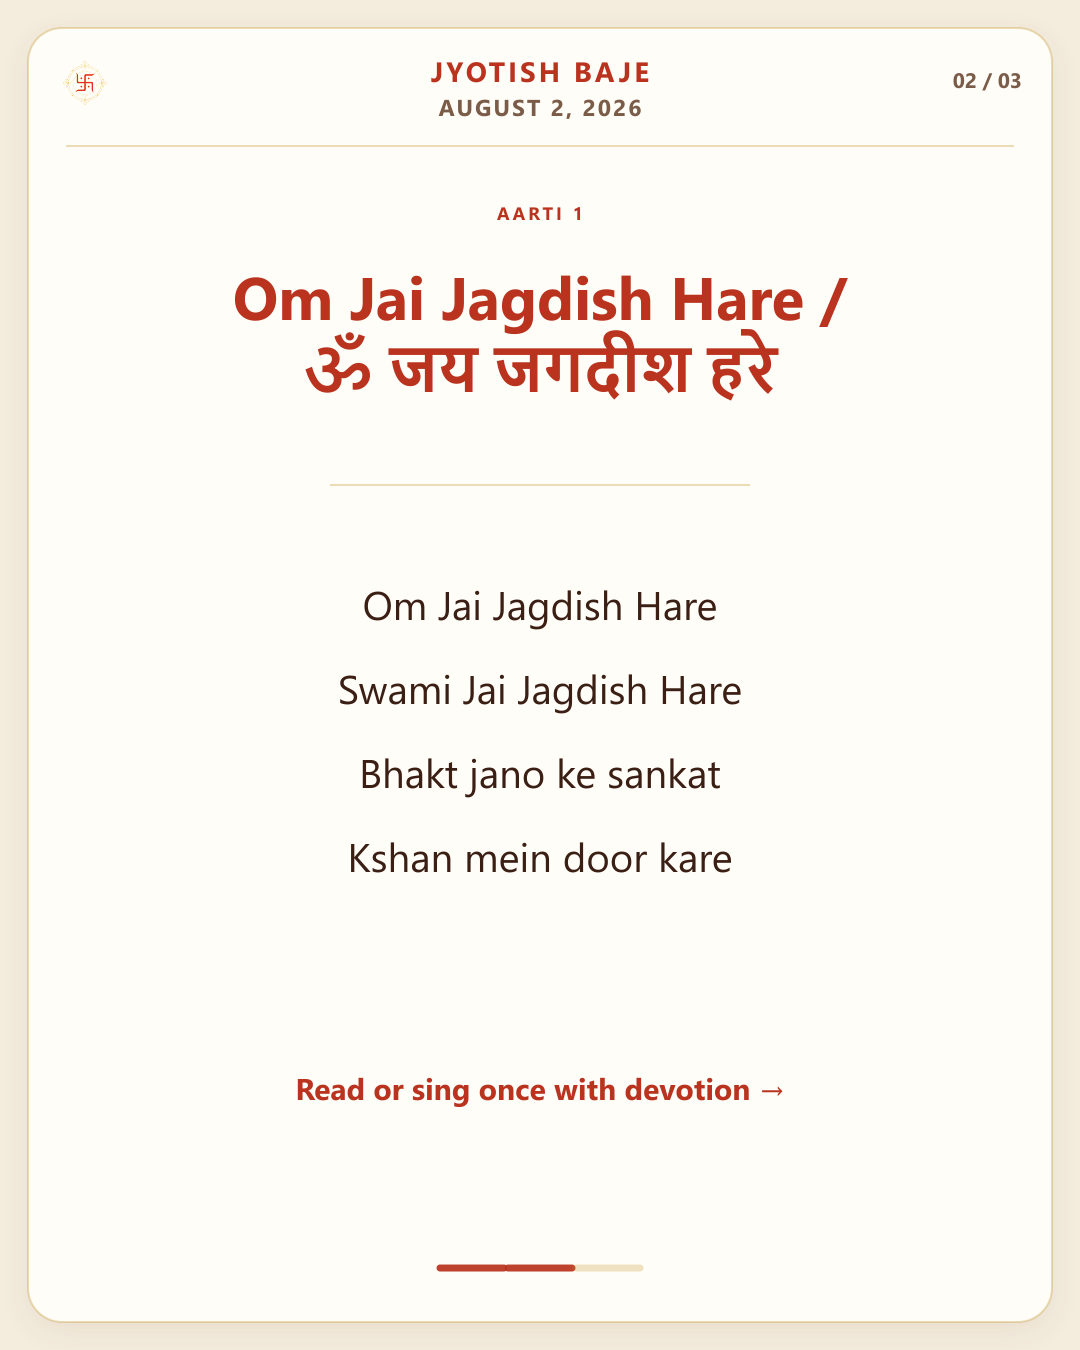
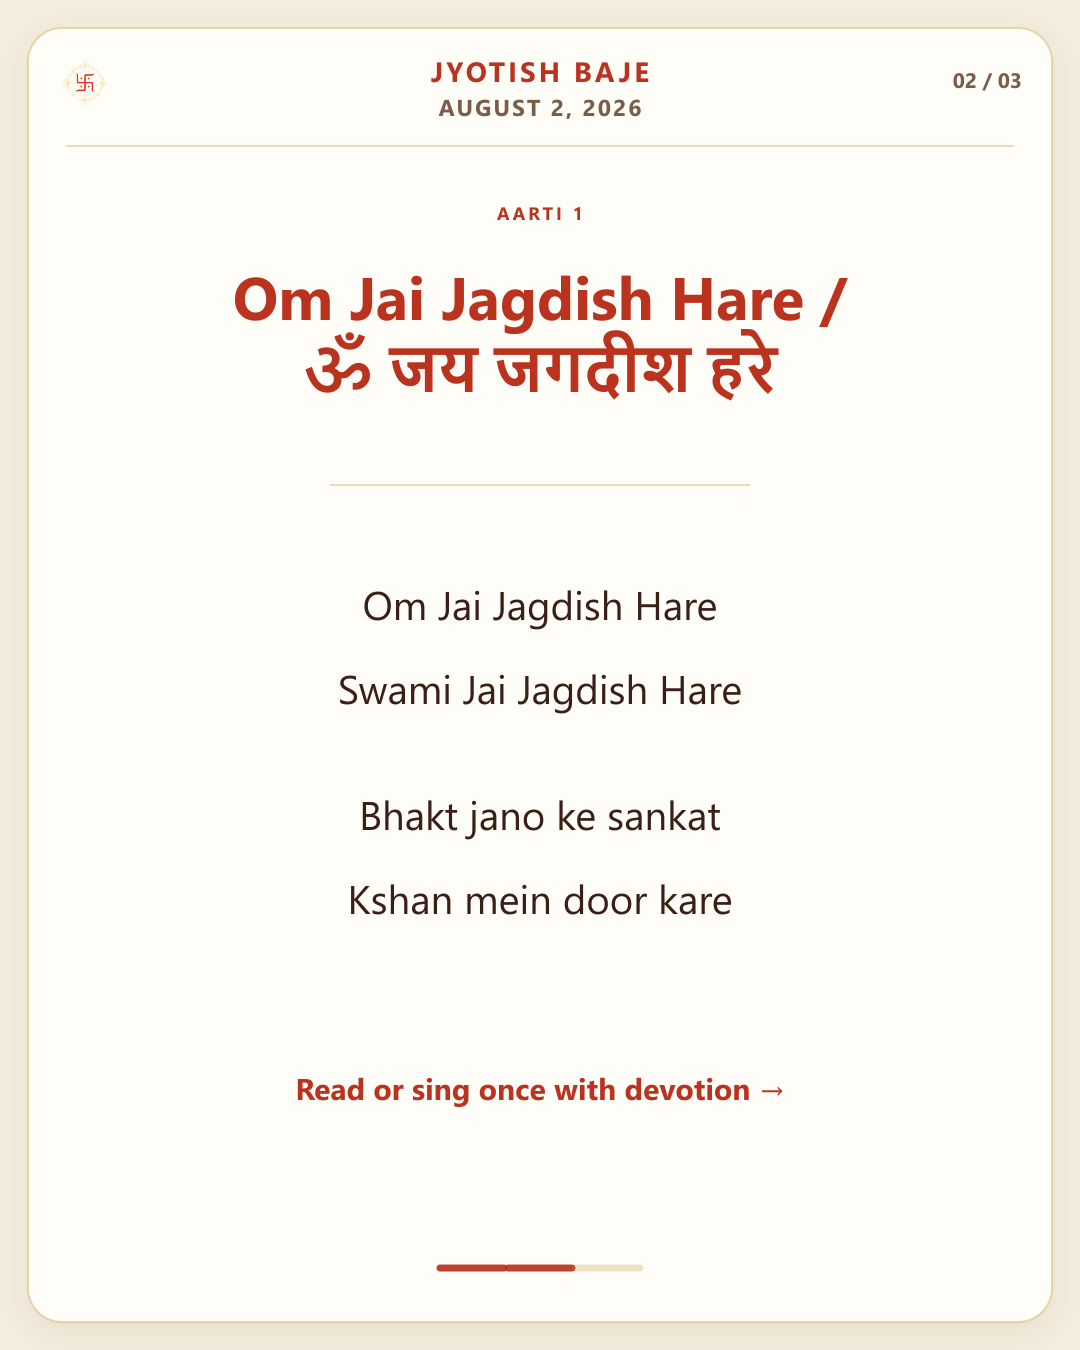
Format each aarti as two paragraphs

Changed region(s): [[0.3056, 0.56, 0.6722, 0.6844]]

diff --git a/Instagram/2026-08-02/evening-aarti/README.md b/Instagram/2026-08-02/evening-aarti/README.md
@@ -3,8 +3,8 @@
 Three-slide evening aarti package for Instagram and TikTok in the light cream app-style Rashifal layout.
 
 - Slide 1: `Sandhya Aarti / सन्ध्या आरती` intro
-- Slide 2: short `Om Jai Jagdish Hare` aarti
-- Slide 3: short `Jai Ambe Gauri` aarti
+- Slide 2: short `Om Jai Jagdish Hare` aarti in two paragraph blocks
+- Slide 3: short `Jai Ambe Gauri` aarti in two paragraph blocks
 - The `JYOTISH BAJE`, date, and read/save cue use the slightly larger size preference
 - Instagram: `exports/02-instagram/01.png` through `03.png`, 1080 x 1350
 - TikTok: `exports/01-tiktok/01.png` through `03.png`, 1080 x 1920
